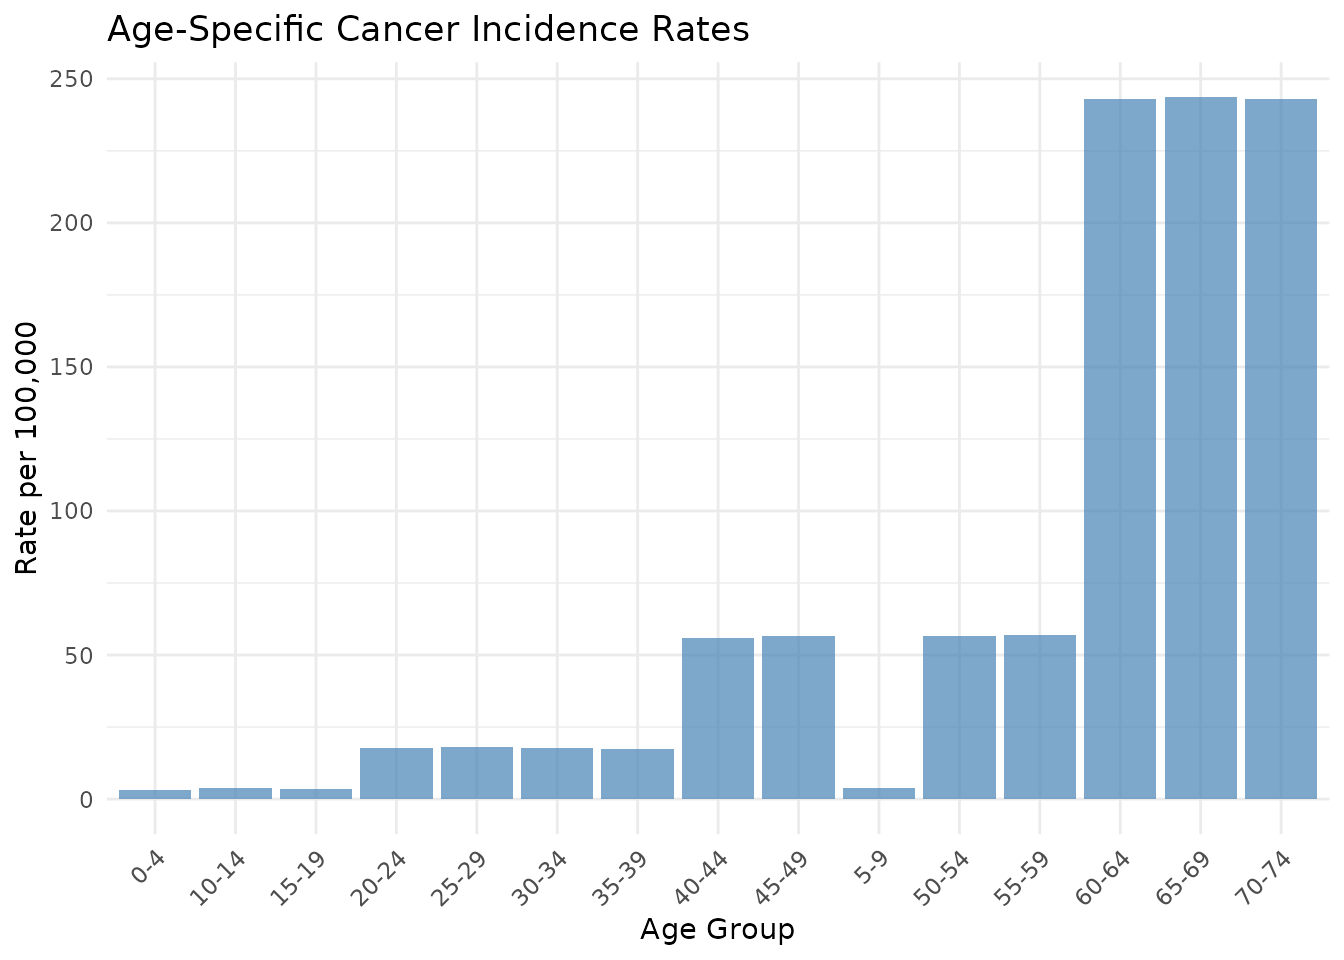
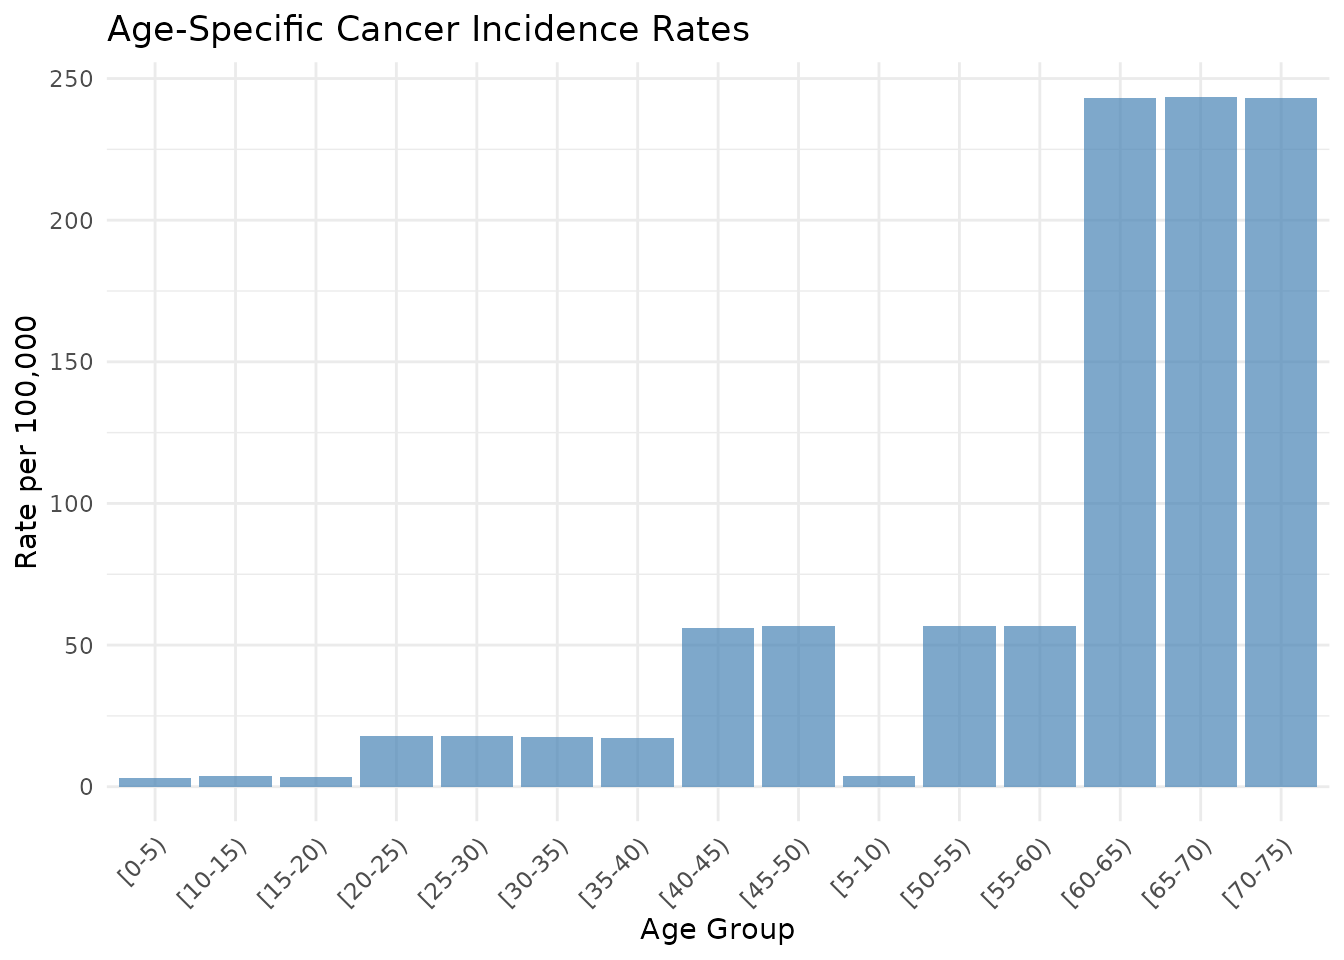
Deploying to gh-pages from @ rmgpanw/epiUtils@bad4dd9da83e69a2f85326228d56f3f6dacd5dc9 🚀

diff --git a/articles/epiUtils.html b/articles/epiUtils.html
@@ -100,12 +100,12 @@ studies.</p>
 <span><span class="co">#&gt; <span style="color: #949494;"># A tibble: 6 × 6</span></span></span>
 <span><span class="co">#&gt;   age_group who_world_standard_perc…¹ recalculation_to_add…² rounded_to_integers</span></span>
 <span><span class="co">#&gt;   <span style="color: #949494; font-style: italic;">&lt;chr&gt;</span>                         <span style="color: #949494; font-style: italic;">&lt;dbl&gt;</span>                  <span style="color: #949494; font-style: italic;">&lt;dbl&gt;</span>               <span style="color: #949494; font-style: italic;">&lt;int&gt;</span></span></span>
-<span><span class="co">#&gt; <span style="color: #BCBCBC;">1</span> 0-4                            8.86                 <span style="text-decoration: underline;">88</span>569.               <span style="text-decoration: underline;">88</span>569</span></span>
-<span><span class="co">#&gt; <span style="color: #BCBCBC;">2</span> 5-9                            8.69                 <span style="text-decoration: underline;">86</span>870.               <span style="text-decoration: underline;">86</span>870</span></span>
-<span><span class="co">#&gt; <span style="color: #BCBCBC;">3</span> 10-14                          8.6                  <span style="text-decoration: underline;">85</span>970.               <span style="text-decoration: underline;">85</span>970</span></span>
-<span><span class="co">#&gt; <span style="color: #BCBCBC;">4</span> 15-19                          8.47                 <span style="text-decoration: underline;">84</span>670.               <span style="text-decoration: underline;">84</span>670</span></span>
-<span><span class="co">#&gt; <span style="color: #BCBCBC;">5</span> 20-24                          8.22                 <span style="text-decoration: underline;">82</span>171.               <span style="text-decoration: underline;">82</span>171</span></span>
-<span><span class="co">#&gt; <span style="color: #BCBCBC;">6</span> 25-29                          7.93                 <span style="text-decoration: underline;">79</span>272.               <span style="text-decoration: underline;">79</span>272</span></span>
+<span><span class="co">#&gt; <span style="color: #BCBCBC;">1</span> [0-5)                          8.86                 <span style="text-decoration: underline;">88</span>569.               <span style="text-decoration: underline;">88</span>569</span></span>
+<span><span class="co">#&gt; <span style="color: #BCBCBC;">2</span> [5-10)                         8.69                 <span style="text-decoration: underline;">86</span>870.               <span style="text-decoration: underline;">86</span>870</span></span>
+<span><span class="co">#&gt; <span style="color: #BCBCBC;">3</span> [10-15)                        8.6                  <span style="text-decoration: underline;">85</span>970.               <span style="text-decoration: underline;">85</span>970</span></span>
+<span><span class="co">#&gt; <span style="color: #BCBCBC;">4</span> [15-20)                        8.47                 <span style="text-decoration: underline;">84</span>670.               <span style="text-decoration: underline;">84</span>670</span></span>
+<span><span class="co">#&gt; <span style="color: #BCBCBC;">5</span> [20-25)                        8.22                 <span style="text-decoration: underline;">82</span>171.               <span style="text-decoration: underline;">82</span>171</span></span>
+<span><span class="co">#&gt; <span style="color: #BCBCBC;">6</span> [25-30)                        7.93                 <span style="text-decoration: underline;">79</span>272.               <span style="text-decoration: underline;">79</span>272</span></span>
 <span><span class="co">#&gt; <span style="color: #949494;"># ℹ abbreviated names: ¹who_world_standard_percent,</span></span></span>
 <span><span class="co">#&gt; <span style="color: #949494;">#   ²recalculation_to_add_to_1million</span></span></span>
 <span><span class="co">#&gt; <span style="color: #949494;"># ℹ 2 more variables: standard_for_seer_stat &lt;int&gt;, lower_age_limit &lt;int&gt;</span></span></span>
@@ -113,7 +113,7 @@ studies.</p>
 <span><span class="co"># Summary of the data</span></span>
 <span><span class="fu"><a href="https://rdrr.io/r/utils/str.html" class="external-link">str</a></span><span class="op">(</span><span class="va">who_2000_2025_standard_population</span><span class="op">)</span></span>
 <span><span class="co">#&gt; tibble [21 × 6] (S3: tbl_df/tbl/data.frame)</span></span>
-<span><span class="co">#&gt;  $ age_group                       : chr [1:21] "0-4" "5-9" "10-14" "15-19" ...</span></span>
+<span><span class="co">#&gt;  $ age_group                       : chr [1:21] "[0-5)" "[5-10)" "[10-15)" "[15-20)" ...</span></span>
 <span><span class="co">#&gt;  $ who_world_standard_percent      : num [1:21] 8.86 8.69 8.6 8.47 8.22 7.93 7.61 7.15 6.59 6.04 ...</span></span>
 <span><span class="co">#&gt;  $ recalculation_to_add_to_1million: num [1:21] 88569 86870 85970 84670 82171 ...</span></span>
 <span><span class="co">#&gt;  $ rounded_to_integers             : int [1:21] 88569 86870 85970 84670 82171 79272 76073 71475 65877 60379 ...</span></span>
@@ -223,9 +223,10 @@ calculated.</p>
 <span><span class="fu"><a href="https://rdrr.io/r/base/print.html" class="external-link">print</a></span><span class="op">(</span><span class="st">"Age groups in WHO standard population:"</span><span class="op">)</span></span>
 <span><span class="co">#&gt; [1] "Age groups in WHO standard population:"</span></span>
 <span><span class="fu"><a href="https://rdrr.io/r/base/print.html" class="external-link">print</a></span><span class="op">(</span><span class="va">who_2000_2025_standard_population</span><span class="op">$</span><span class="va">age_group</span><span class="op">)</span></span>
-<span><span class="co">#&gt;  [1] "0-4"   "5-9"   "10-14" "15-19" "20-24" "25-29" "30-34" "35-39" "40-44"</span></span>
-<span><span class="co">#&gt; [10] "45-49" "50-54" "55-59" "60-64" "65-69" "70-74" "75-79" "80-84" "85-89"</span></span>
-<span><span class="co">#&gt; [19] "90-94" "95-99" "100+"</span></span>
+<span><span class="co">#&gt;  [1] "[0-5)"    "[5-10)"   "[10-15)"  "[15-20)"  "[20-25)"  "[25-30)" </span></span>
+<span><span class="co">#&gt;  [7] "[30-35)"  "[35-40)"  "[40-45)"  "[45-50)"  "[50-55)"  "[55-60)" </span></span>
+<span><span class="co">#&gt; [13] "[60-65)"  "[65-70)"  "[70-75)"  "[75-80)"  "[80-85)"  "[85-90)" </span></span>
+<span><span class="co">#&gt; [19] "[90-95)"  "[95-100)" "[100+)"</span></span>
 <span></span>
 <span><span class="co"># Create a mapping to match our 10-year age groups to WHO standard population</span></span>
 <span><span class="co"># We'll aggregate WHO age groups to match our 10-year groups</span></span>
@@ -503,26 +504,26 @@ age groups.</p>
 <span><span class="co">#&gt; <span style="color: #949494;"># A tibble: 15 × 4</span></span></span>
 <span><span class="co">#&gt;    age_group events person_years standard_pop</span></span>
 <span><span class="co">#&gt;    <span style="color: #949494; font-style: italic;">&lt;chr&gt;</span>      <span style="color: #949494; font-style: italic;">&lt;int&gt;</span>        <span style="color: #949494; font-style: italic;">&lt;dbl&gt;</span>        <span style="color: #949494; font-style: italic;">&lt;int&gt;</span></span></span>
-<span><span class="co">#&gt; <span style="color: #BCBCBC;"> 1</span> 0-4            2        <span style="text-decoration: underline;">63</span>433        <span style="text-decoration: underline;">88</span>569</span></span>
-<span><span class="co">#&gt; <span style="color: #BCBCBC;"> 2</span> 5-9            3        <span style="text-decoration: underline;">81</span>577        <span style="text-decoration: underline;">86</span>870</span></span>
-<span><span class="co">#&gt; <span style="color: #BCBCBC;"> 3</span> 10-14          6       <span style="text-decoration: underline;">159</span>943        <span style="text-decoration: underline;">85</span>970</span></span>
-<span><span class="co">#&gt; <span style="color: #BCBCBC;"> 4</span> 15-19          6       <span style="text-decoration: underline;">177</span>820        <span style="text-decoration: underline;">84</span>670</span></span>
-<span><span class="co">#&gt; <span style="color: #BCBCBC;"> 5</span> 20-24         30       <span style="text-decoration: underline;">168</span>260        <span style="text-decoration: underline;">82</span>171</span></span>
-<span><span class="co">#&gt; <span style="color: #BCBCBC;"> 6</span> 25-29         18        <span style="text-decoration: underline;">99</span>794        <span style="text-decoration: underline;">79</span>272</span></span>
-<span><span class="co">#&gt; <span style="color: #BCBCBC;"> 7</span> 30-34         11        <span style="text-decoration: underline;">62</span>365        <span style="text-decoration: underline;">76</span>073</span></span>
-<span><span class="co">#&gt; <span style="color: #BCBCBC;"> 8</span> 35-39         16        <span style="text-decoration: underline;">92</span>829        <span style="text-decoration: underline;">71</span>475</span></span>
-<span><span class="co">#&gt; <span style="color: #BCBCBC;"> 9</span> 40-44         48        <span style="text-decoration: underline;">85</span>625        <span style="text-decoration: underline;">65</span>877</span></span>
-<span><span class="co">#&gt; <span style="color: #BCBCBC;">10</span> 45-49         61       <span style="text-decoration: underline;">107</span>785        <span style="text-decoration: underline;">60</span>379</span></span>
-<span><span class="co">#&gt; <span style="color: #BCBCBC;">11</span> 50-54         60       <span style="text-decoration: underline;">105</span>942        <span style="text-decoration: underline;">53</span>681</span></span>
-<span><span class="co">#&gt; <span style="color: #BCBCBC;">12</span> 55-59         47        <span style="text-decoration: underline;">82</span>686        <span style="text-decoration: underline;">45</span>484</span></span>
-<span><span class="co">#&gt; <span style="color: #BCBCBC;">13</span> 60-64        397       <span style="text-decoration: underline;">163</span>266        <span style="text-decoration: underline;">37</span>187</span></span>
-<span><span class="co">#&gt; <span style="color: #BCBCBC;">14</span> 65-69        422       <span style="text-decoration: underline;">173</span>252        <span style="text-decoration: underline;">29</span>590</span></span>
-<span><span class="co">#&gt; <span style="color: #BCBCBC;">15</span> 70-74        340       <span style="text-decoration: underline;">139</span>838        <span style="text-decoration: underline;">22</span>092</span></span>
+<span><span class="co">#&gt; <span style="color: #BCBCBC;"> 1</span> [0-5)          2        <span style="text-decoration: underline;">63</span>433        <span style="text-decoration: underline;">88</span>569</span></span>
+<span><span class="co">#&gt; <span style="color: #BCBCBC;"> 2</span> [5-10)         3        <span style="text-decoration: underline;">81</span>577        <span style="text-decoration: underline;">86</span>870</span></span>
+<span><span class="co">#&gt; <span style="color: #BCBCBC;"> 3</span> [10-15)        6       <span style="text-decoration: underline;">159</span>943        <span style="text-decoration: underline;">85</span>970</span></span>
+<span><span class="co">#&gt; <span style="color: #BCBCBC;"> 4</span> [15-20)        6       <span style="text-decoration: underline;">177</span>820        <span style="text-decoration: underline;">84</span>670</span></span>
+<span><span class="co">#&gt; <span style="color: #BCBCBC;"> 5</span> [20-25)       30       <span style="text-decoration: underline;">168</span>260        <span style="text-decoration: underline;">82</span>171</span></span>
+<span><span class="co">#&gt; <span style="color: #BCBCBC;"> 6</span> [25-30)       18        <span style="text-decoration: underline;">99</span>794        <span style="text-decoration: underline;">79</span>272</span></span>
+<span><span class="co">#&gt; <span style="color: #BCBCBC;"> 7</span> [30-35)       11        <span style="text-decoration: underline;">62</span>365        <span style="text-decoration: underline;">76</span>073</span></span>
+<span><span class="co">#&gt; <span style="color: #BCBCBC;"> 8</span> [35-40)       16        <span style="text-decoration: underline;">92</span>829        <span style="text-decoration: underline;">71</span>475</span></span>
+<span><span class="co">#&gt; <span style="color: #BCBCBC;"> 9</span> [40-45)       48        <span style="text-decoration: underline;">85</span>625        <span style="text-decoration: underline;">65</span>877</span></span>
+<span><span class="co">#&gt; <span style="color: #BCBCBC;">10</span> [45-50)       61       <span style="text-decoration: underline;">107</span>785        <span style="text-decoration: underline;">60</span>379</span></span>
+<span><span class="co">#&gt; <span style="color: #BCBCBC;">11</span> [50-55)       60       <span style="text-decoration: underline;">105</span>942        <span style="text-decoration: underline;">53</span>681</span></span>
+<span><span class="co">#&gt; <span style="color: #BCBCBC;">12</span> [55-60)       47        <span style="text-decoration: underline;">82</span>686        <span style="text-decoration: underline;">45</span>484</span></span>
+<span><span class="co">#&gt; <span style="color: #BCBCBC;">13</span> [60-65)      397       <span style="text-decoration: underline;">163</span>266        <span style="text-decoration: underline;">37</span>187</span></span>
+<span><span class="co">#&gt; <span style="color: #BCBCBC;">14</span> [65-70)      422       <span style="text-decoration: underline;">173</span>252        <span style="text-decoration: underline;">29</span>590</span></span>
+<span><span class="co">#&gt; <span style="color: #BCBCBC;">15</span> [70-75)      340       <span style="text-decoration: underline;">139</span>838        <span style="text-decoration: underline;">22</span>092</span></span>
 <span></span>
 <span><span class="co"># Calculate age-standardised incidence rates</span></span>
 <span><span class="va">cancer_asr</span> <span class="op">&lt;-</span> <span class="fu"><a href="../reference/calculate_asr_direct.html">calculate_asr_direct</a></span><span class="op">(</span><span class="va">cancer_data</span><span class="op">)</span></span>
 <span><span class="co">#&gt; Warning: <span style="color: #BBBB00;">!</span> Found age groups with small/zero case counts:</span></span>
-<span><span class="co">#&gt; <span style="color: #00BBBB;">•</span> &lt; 5 cases: 0-4 (2 cases), 5-9 (3 cases)</span></span>
+<span><span class="co">#&gt; <span style="color: #00BBBB;">•</span> &lt; 5 cases: [0-5) (2 cases), [5-10) (3 cases)</span></span>
 <span><span class="co">#&gt; <span style="color: #00BBBB;">ℹ</span> Small and zero case counts may produce unstable rate estimates</span></span>
 <span><span class="co">#&gt; <span style="color: #00BBBB;">ℹ</span> Consider wider age groups, longer follow-up, or data quality checks</span></span>
 <span></span>
